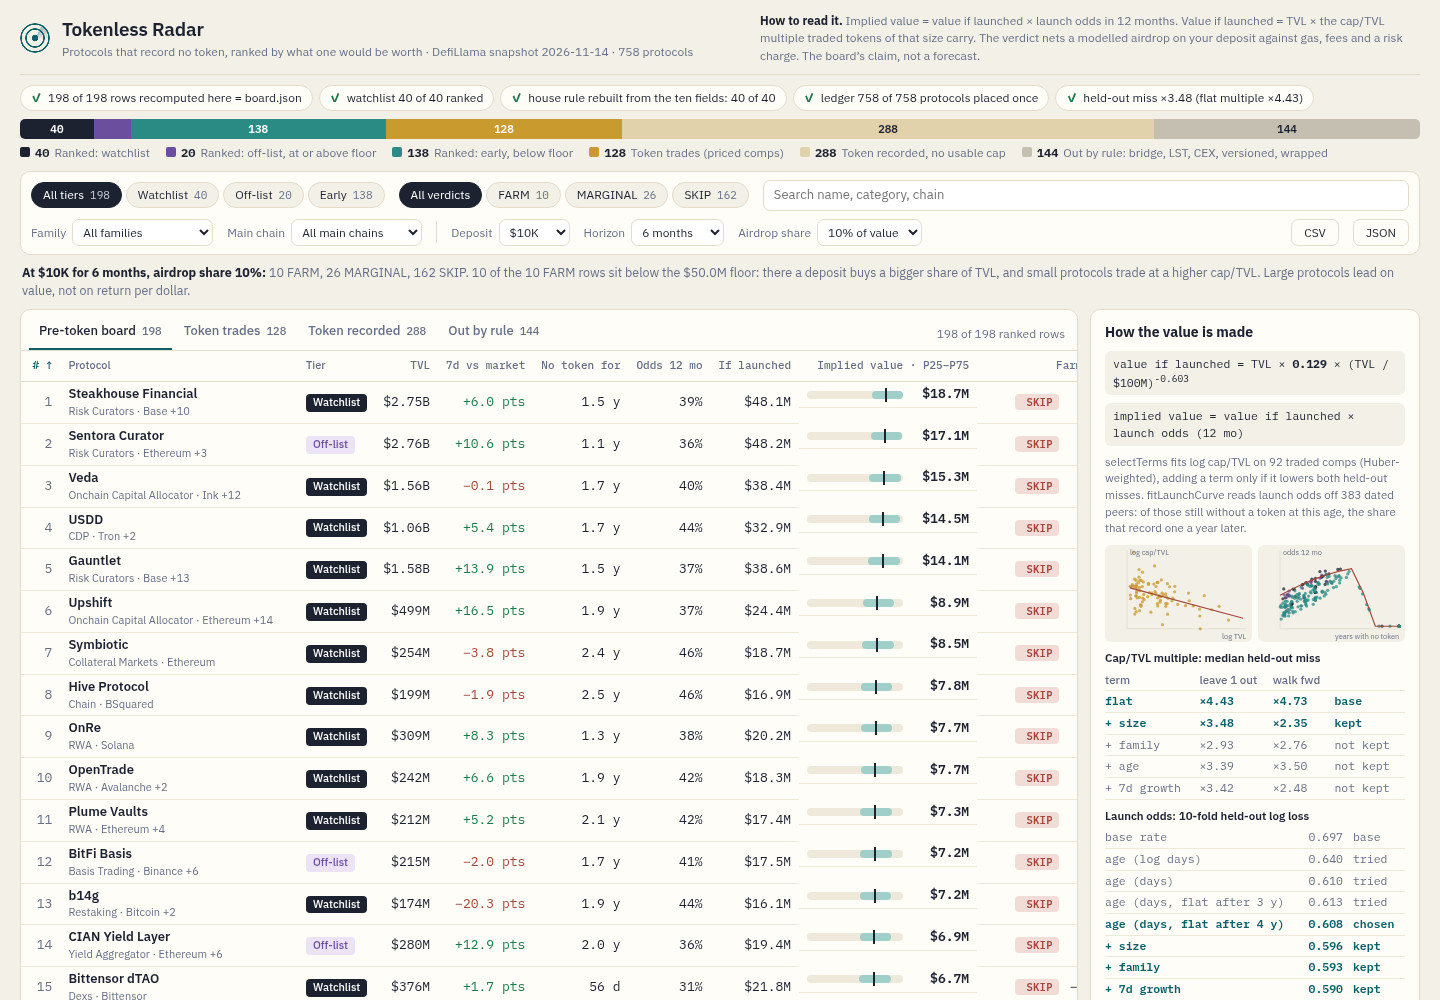
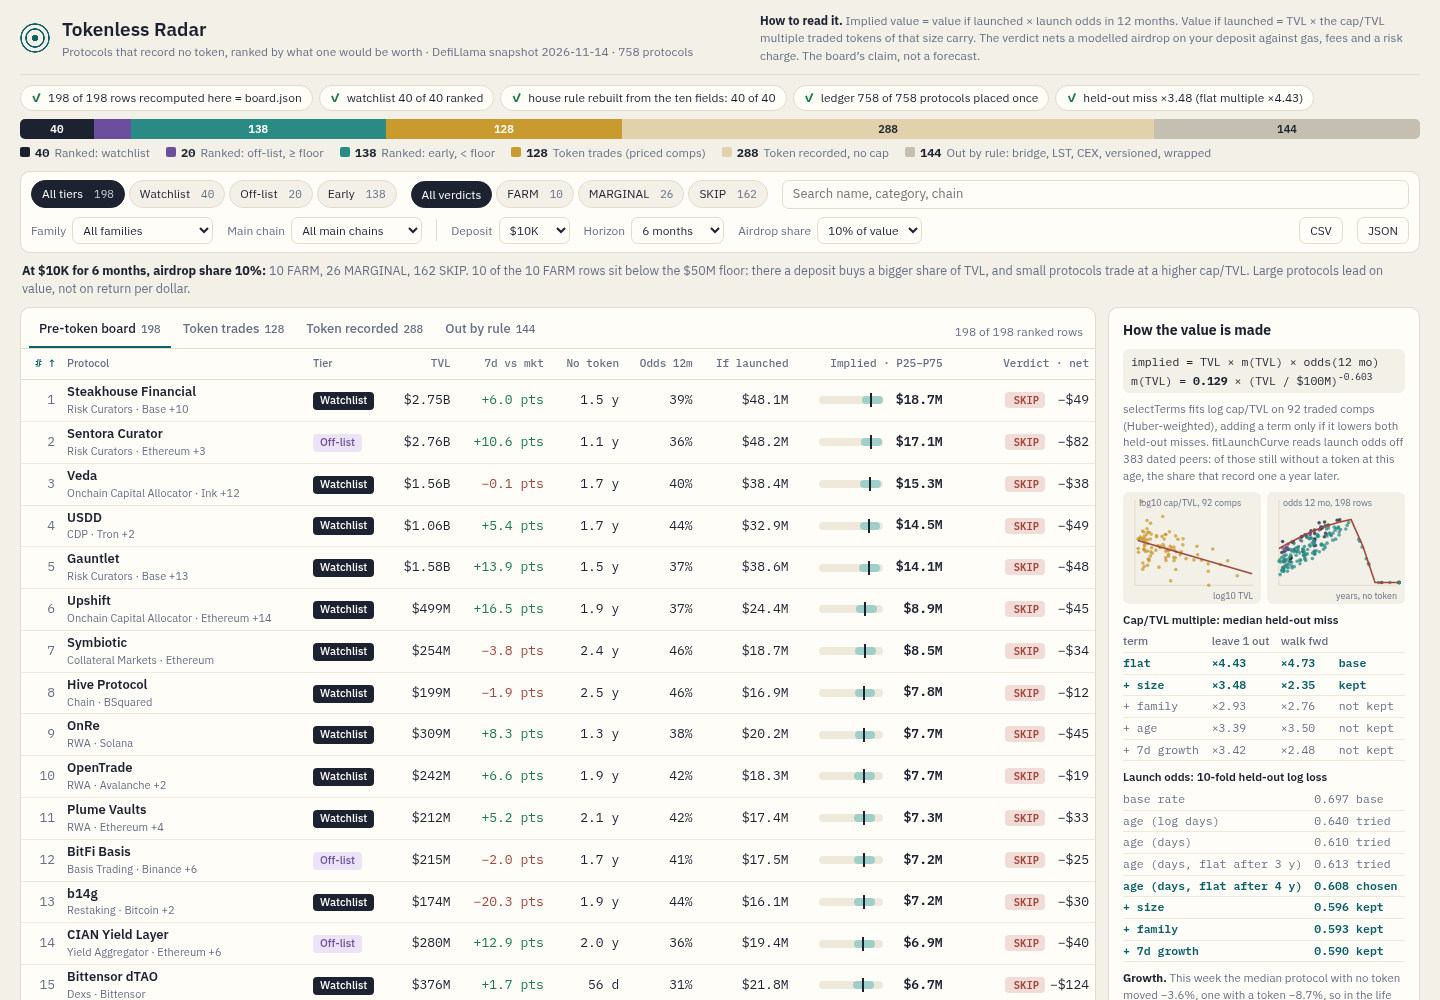
Reading order 1-model/2-farm/3-app; range check tests the stated range; verdict sort

diff --git a/dashboard/3-app.js b/dashboard/3-app.js
@@ -1,5 +1,5 @@
 /* Tokenless Radar: the page. It refits the model from the raw snapshot (RadarModel.run), checks every
-   row against board.json, and draws; every number comes from model.js and farm.js. */
+   row against board.json, and draws; every number comes from 1-model.js and 2-farm.js. */
 (function () {
   'use strict';
   var D = window.RADAR_DATA, Model = window.RadarModel, Farm = window.RadarFarm, usd = Farm.usd;
@@ -73,7 +73,7 @@
     rank: (r) => r.rank, name: (r) => r.name.toLowerCase(), tier: (r) => r.group,
     tvl: (r) => r.tvl_usd, g7: (r) => r.excess_7d, age: (r) => r.age_days === null ? 1e9 : r.age_days,
     odds: (r) => r.odds_12m, ifl: (r) => r.value_if_launched, implied: (r) => r.raw,
-    farm: (r) => r.v.cover
+    farm: (r) => ['SKIP', 'MARGINAL', 'FARM'].indexOf(r.v.verdict) * 1e7 + r.v.net
   };
   function visibleRows() {
     var q = S.q.trim().toLowerCase();
@@ -170,7 +170,7 @@
         h('button', { type: 'button', class: 'ghost', text: 'JSON', onclick: function () { exportRows('json'); } })));
   }
   var COLS = [['rank', '#', 'num'], ['name', 'Protocol', ''], ['tier', 'Tier', ''], ['tvl', 'TVL', 'num'], ['g7', '7d vs mkt', 'num'], ['age', 'No token', 'num'],
-    ['odds', 'Odds 12m', 'num'], ['ifl', 'If launched', 'num'], ['implied', 'Implied · P25–P75', 'num'], ['farm', 'Farm · net', 'num']];
+    ['odds', 'Odds 12m', 'num'], ['ifl', 'If launched', 'num'], ['implied', 'Implied · P25–P75', 'num'], ['farm', 'Verdict · net', 'num']];
   function rangeScale() {
     var lo = Infinity, hi = 0;
     M.rows.forEach(function (r) { lo = Math.min(lo, r.p25); hi = Math.max(hi, r.p75); });
@@ -248,7 +248,7 @@
     return box;
   }
   function modelCard() {
-    var sel = M.selection, b = M.fit.b, odds = M.oddsSelection;
+    var sel = M.selection, b = M.fit.b, odds = M.oddsSelection, cover = M.coverage.hit / M.coverage.n;
     var comps = M.comps.map((c) => [Math.log10(c.tvl_usd), Math.log10(c.mcap_usd / c.tvl_usd)]);
     var line = [6.7, 10.5].map((x) => [x, b[0] + (b[1] || 0) * (x - 8)]);
     var ages = M.rows.map((r) => [Math.min(5, (r.age_days === null ? Model.UNDATED_DAYS : r.age_days) / 365), r.odds_12m, 't-' + r.group]);
@@ -274,7 +274,8 @@
         })),
       h('p', { class: 'note' }, h('b', { text: 'Growth. ' }), 'This week the median protocol with no token moved ' + signed(M.week.none) + '%, one with a token ' + signed(M.week.token) +
         '%, so in the life table faster growth reads as earlier and trims the odds a little.'),
-      h('p', { class: 'note' }, h('b', { text: 'Range check. ' }), 'The P25–P75 range caught ' + M.coverage.hit + ' of ' + M.coverage.n + ' later caps in the walk-forward test (' + pct(M.coverage.hit / M.coverage.n) + '; 50% is calibrated), so read ranges as narrow. Values carry 3 significant figures.'));
+      h('p', { class: 'note' }, h('b', { text: 'Range check. ' }), 'The stated P25–P75 range held the real cap of ' + M.coverage.hit + ' of ' + M.coverage.n + ' walk-forward comps (' + pct(cover) + '; 50% is calibrated): ranges run ' +
+        (cover < 0.45 ? 'narrow' : cover > 0.55 ? 'wide' : 'about right') + '. Values carry 3 significant figures.'));
   }
 
   // ---- detail view

diff --git a/dashboard/1-model.js b/dashboard/1-model.js
@@ -1,6 +1,8 @@
 /* Tokenless Radar: the value model. The page and main.ts load this same file, so a number on the
    screen and a number in board.json come from one function. It reads only the snapshot's ten fields;
-   no protocol name or slug appears below. Implied value is this board's claim, never a forecast. */
+   no protocol name or slug appears below. Implied value is this board's claim, never a forecast.
+   Reading order: run (bottom) calls selectTerms and fitMultiple (value if launched), selectOdds and
+   lifeTable (launch odds), then valueRow. 2-farm.js nets a verdict and builds plans; 3-app.js draws. */
 (function (root, factory) {
   if (typeof module === 'object' && module.exports) module.exports = factory();
   else root.RadarModel = factory();
@@ -155,15 +157,8 @@
     return { terms: terms, table: table, loo: best.loo, walk: best.walk };
   }
 
-  /** Coverage check: how often a later comp's real cap lands inside the P25-P75 range set by earlier misses. */
-  function rangeCoverage(walk) {
-    var hit = 0, n = 0;
-    for (var i = 12; i < walk.length; i++) {
-      var prior = walk.slice(0, i), lo = quantile(prior, 0.25), hi = quantile(prior, 0.75);
-      n++; if (walk[i] >= lo && walk[i] <= hi) hit++;
-    }
-    return { hit: hit, n: n };
-  }
+  /** rangeCoverage: how often a walk-forward comp's real cap lands inside the stated P25-P75 range. */
+  function rangeCoverage(walk, lo, hi) { return { hit: walk.filter((r) => r >= lo && r <= hi).length, n: walk.length }; }
 
   // ---- launch odds: a life table read off the snapshot's own cross-section
   function oddsFeatures(p, days, terms) {
@@ -283,7 +278,7 @@
     var m = {
       ctx: ctx, comps: comps, fit: fitMultiple(comps, sel.terms, ctx), curve: fitLaunchCurve(pop, oddsSel.terms),
       selection: sel, oddsSelection: oddsSel, q25: quantile(loo, 0.25), q75: quantile(loo, 0.75),
-      coverage: rangeCoverage(walk), pop: pop.length, all: all, week: { token: week(true), none: week(false) }
+      coverage: rangeCoverage(walk, quantile(loo, 0.25), quantile(loo, 0.75)), pop: pop.length, all: all, week: { token: week(true), none: week(false) }
     };
     var ranked = all.filter((p) => p.group === 'watchlist' || p.group === 'offlist' || p.group === 'early')
       .map((p) => valueRow(m, p))

diff --git a/main.ts b/main.ts
@@ -1,7 +1,7 @@
 // Tokenless Radar (token-radar-01), Node 22, standard library only.
 //
 // Reads the sealed snapshot (/input/snapshot.json, or --input <file|dir>), runs the value model in
-// dashboard/model.js and the farm verdict in dashboard/farm.js (the same two files the page runs, so the
+// dashboard/1-model.js and the farm verdict in dashboard/2-farm.js (the same two files the page runs, so the
 // page and board.json cannot disagree), writes /output/board.json and /output/data.js, copies dashboard/
 // and screenshots/ to /output, and last writes /output/dossier.json with the vendored make.fun library.
 //
@@ -16,8 +16,8 @@ import { buildDossier } from './vendor/makefun-board.ts';
 
 const here = fileURLToPath(new URL('.', import.meta.url));
 const load = createRequire(import.meta.url);
-const Model = load('./dashboard/model.js');
-const Farm = load('./dashboard/farm.js');
+const Model = load('./dashboard/1-model.js');
+const Farm = load('./dashboard/2-farm.js');
 
 /** The scorer's caps: the text cap shapes the dossier's bytes, the others only refuse. */
 const TEXT_MAX_BYTES = 65_536;

diff --git a/dashboard/index.html b/dashboard/index.html
@@ -7,13 +7,10 @@
 <link rel="stylesheet" href="radar.css">
 </head>
 <body>
-<!-- A map for whoever reads this source. model.js is the value model: run, selectTerms, fitMultiple,
-     fitLaunchCurve, lifeTable, valueRow. farm.js is the verdict and plan: farmVerdict, farmPlan.
-     app.js refits both from the raw snapshot in data.js and checks every row against board.json. -->
 <div id="app" aria-busy="true"><p>Loading the snapshot.</p></div>
 <script src="../data.js"></script>
-<script src="model.js"></script>
-<script src="farm.js"></script>
-<script src="app.js"></script>
+<script src="1-model.js"></script>
+<script src="2-farm.js"></script>
+<script src="3-app.js"></script>
 </body>
 </html>
